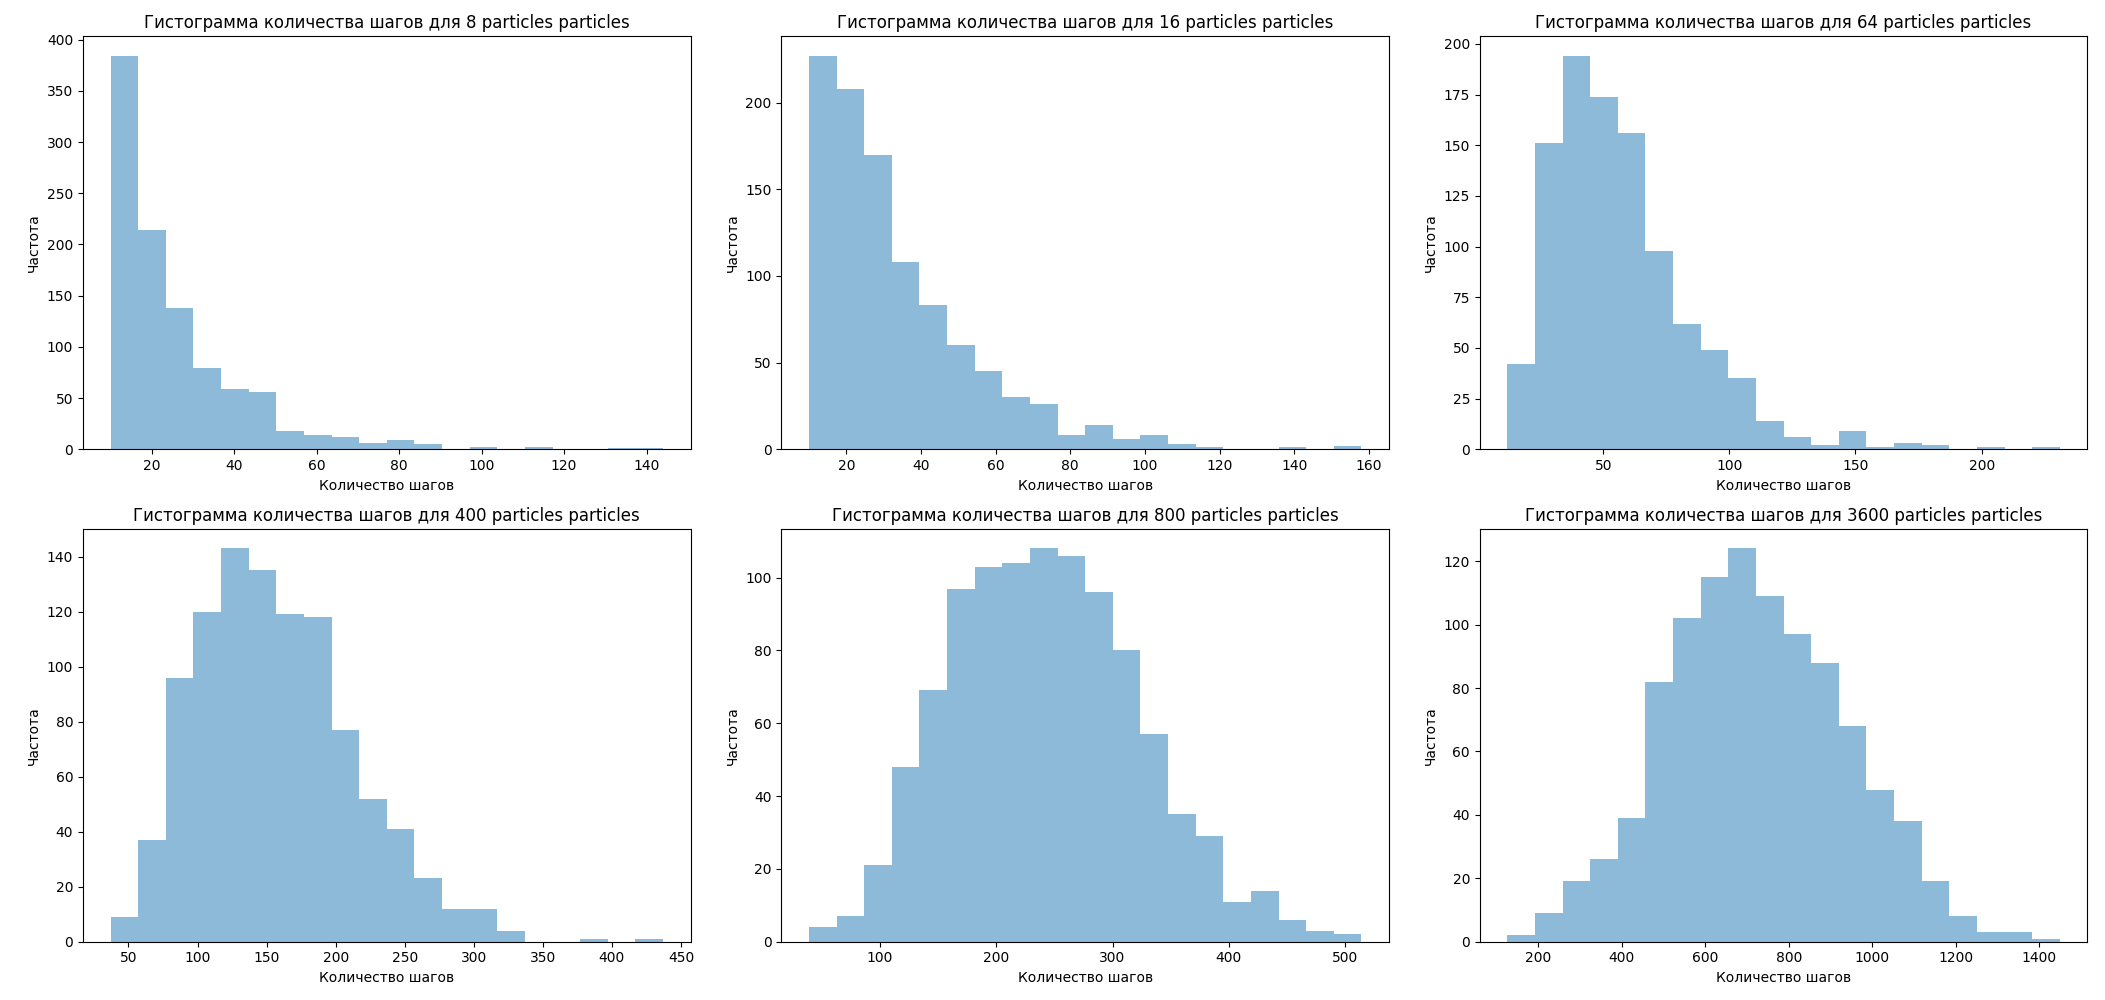
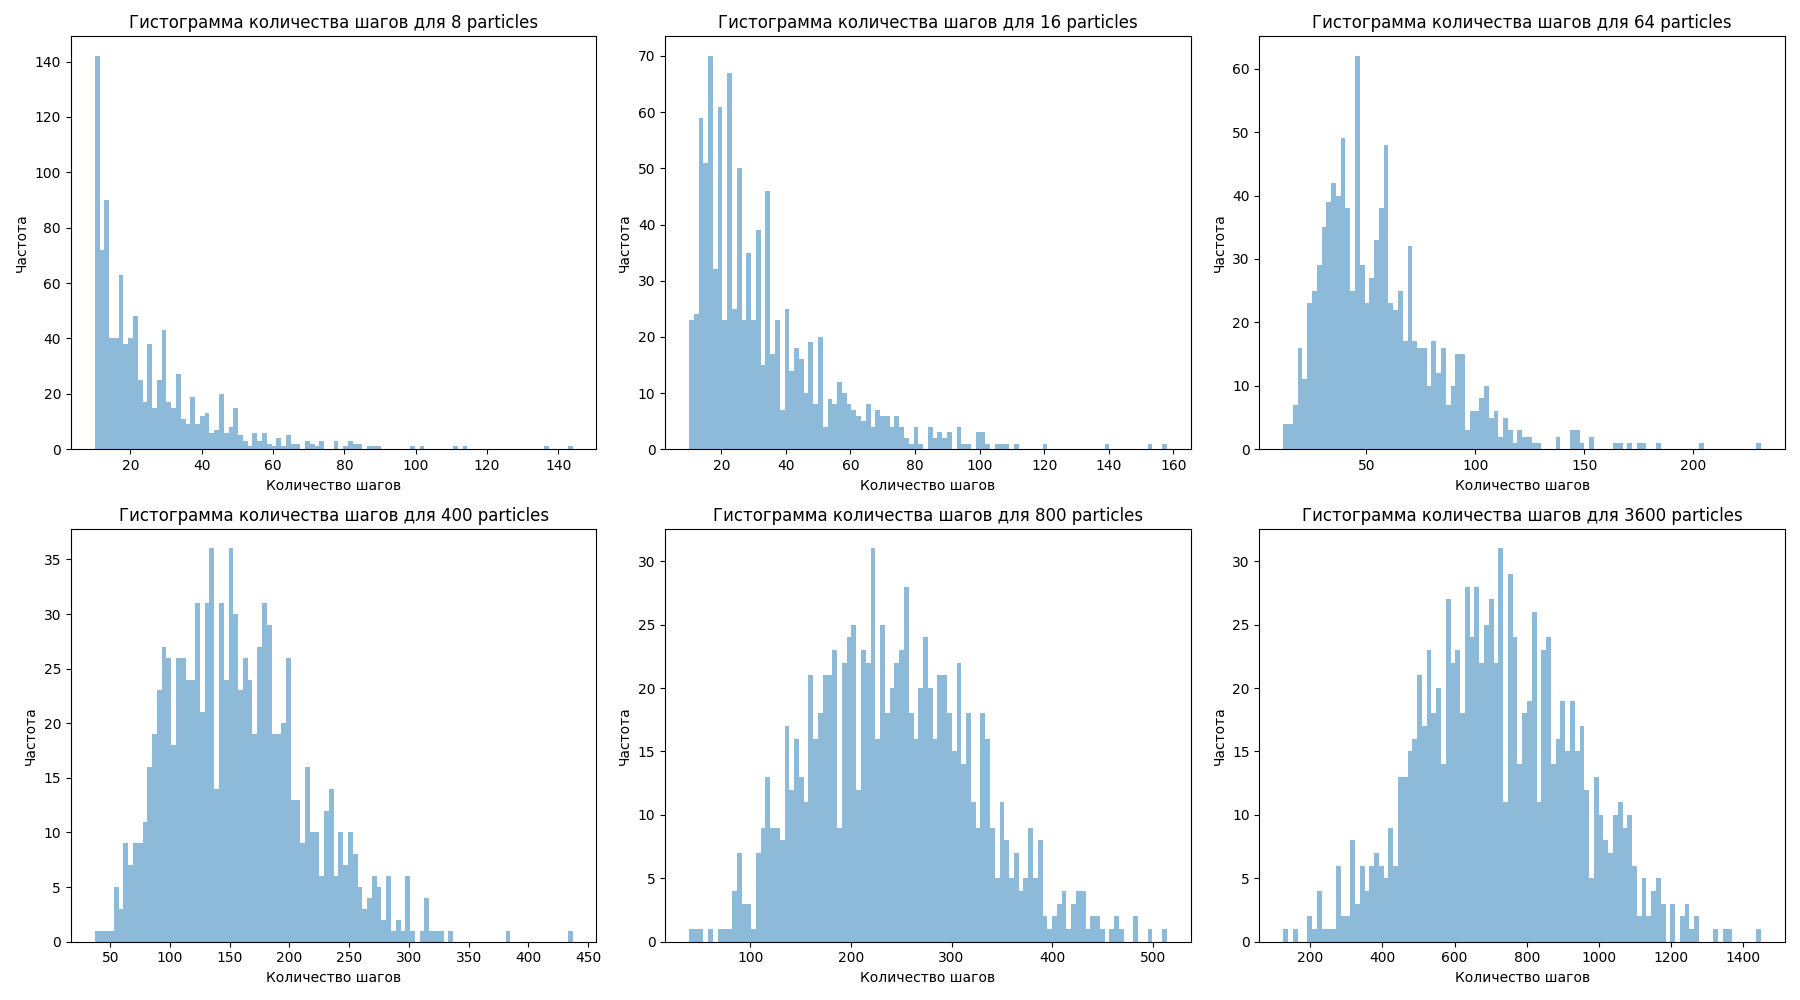
update

diff --git a/src/approach_to_equilibrium/create_graphic/histogram.py b/src/approach_to_equilibrium/create_graphic/histogram.py
@@ -2,7 +2,7 @@ import pandas as pd
 import matplotlib.pyplot as plt
 
 # Считываем данные из CSV файла
-data = pd.read_csv('../../../datasets/unstable_equilibrium_data_2.csv')
+data = pd.read_csv('../../../datasets/stable_equilibrium_data_2.csv')
 
 # Создаем общий график с 6 подграфиками
 fig, axs = plt.subplots(2, 3, figsize=(18, 10))
@@ -10,7 +10,7 @@ fig, axs = plt.subplots(2, 3, figsize=(18, 10))
 # Проходимся по каждой колонке и строим гистограмму на соответствующем подграфике
 for i, column in enumerate(data.columns):
     ax = axs[i // 3, i % 3]  # Получаем нужный подграфик
-    ax.hist(data[column], bins=20, alpha=0.5)
+    ax.hist(data[column], bins=100, alpha=0.5)
     ax.set_xlabel('Количество шагов')
     ax.set_ylabel('Частота')
     ax.set_title(f'Гистограмма количества шагов для {column}')
